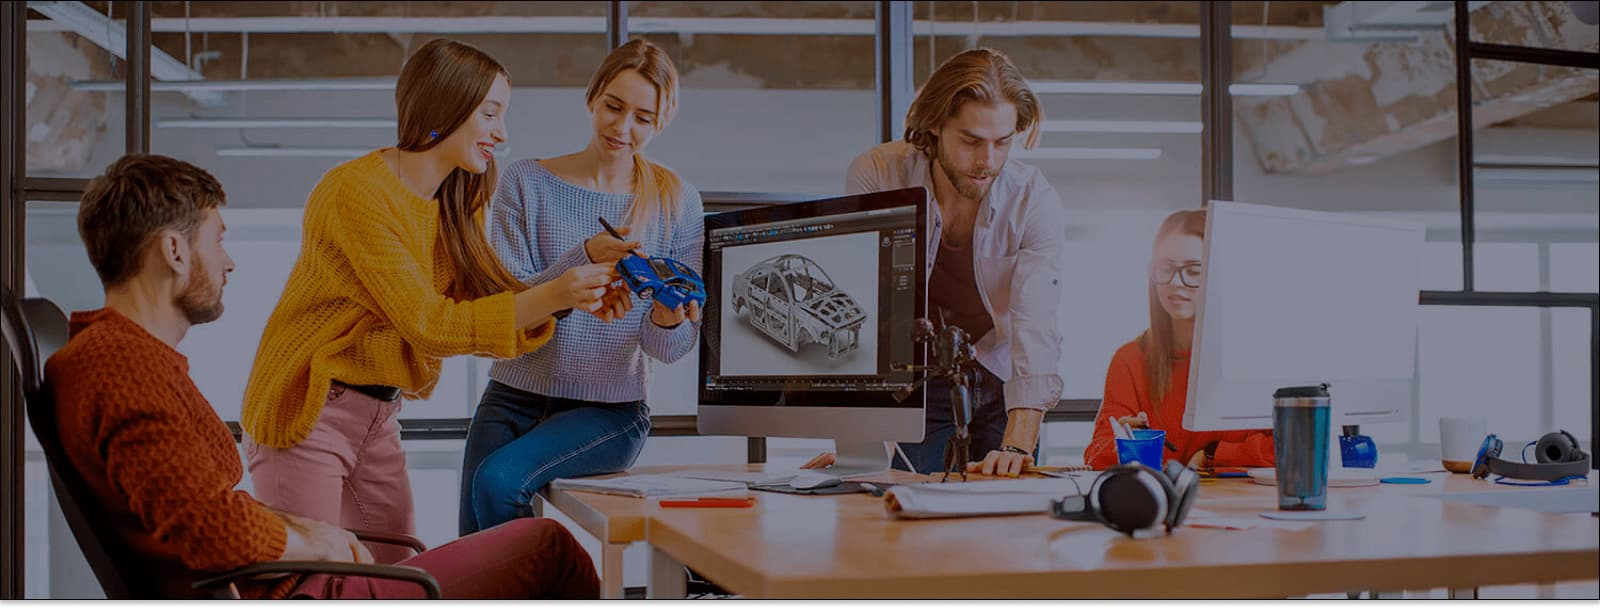
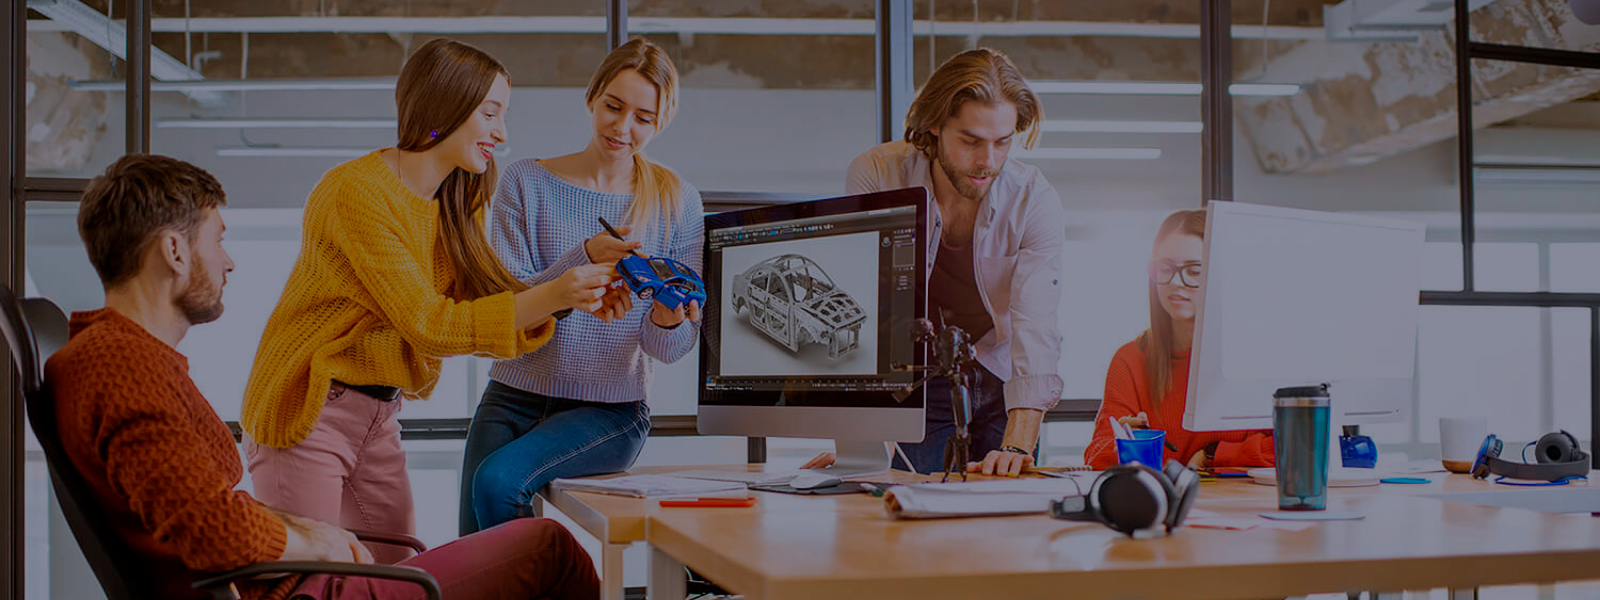
1

diff --git a/index.html b/index.html
@@ -238,7 +238,6 @@
                             <h3 class="title-name">Михаил Ермаков</h3>
                             <p class="second-name">UI Designer</p>
                         </div>
-                        <div>
                             <ul class="list social-icon">
                                 <li class="list-icon">
                                     <a class="icon-team" href="">
@@ -269,10 +268,8 @@
                                     </a>
                                 </li>
                             </ul>
-                        </li>
                     </ul>
                 </div>
-            </div>
         </section>
         <!--Our clients-->
         <section class="section">
@@ -379,11 +376,11 @@
     </footer>
     <div class="backdrop is-hidden" data-modal data-modal-close>
         <div class="modal">
-            <buttton class="button-modal" data-modal-close>
+            <button class="button-modal" data-modal-close>
                 <svg class="icon-modal">
                     <use href="./images/icons.svg#icon-close"></use>
                 </svg>
-            </buttton>
+            </button>
         </div>
     </div>
     <script src="./js/modal.js"></script>

diff --git a/css/style.css b/css/style.css
@@ -158,7 +158,12 @@ p {
     background-position: center;
     background-repeat: no-repeat;
     background-size: cover;
-    background-image: linear-gradient( rgba( 47, 48, 58, 0.4),rgba( 47, 48, 58, 0.4)),url(../images/background.jpg);
+    background-color: #757575;
+    background-image: linear-gradient(
+        to right,
+        rgba(47, 48, 58, 0.4),
+        rgba(47, 48, 58, 0.4)
+        ),url(../images/background.jpg);
     max-width: 1600px;
     text-align: center;
     padding-top: 200px;
@@ -190,6 +195,7 @@ p {
 .icon-adv{
     display: flex;
     justify-content: center;
+    align-items: center;
     width: 270px;
     height: 120px;
     background-color: #F5F4FA;
@@ -197,9 +203,6 @@ p {
     margin-bottom: 30px;
     text-align: center;
     cursor: pointer;
-}
-.antena{
-   margin-top: 25px;
 }
 .title-advange{
     color: var(--second-text-color);
@@ -554,11 +557,9 @@ p {
     top: 50%;
     left: 50%;
     transform: translate(-50%,-50%);
-
     width: 528px;
     height: 521px;
     background-color: var(--main-text-color);
-    
     transition: background-color 250ms cubic-bezier(0.4, 0, 0.2, 1);
 }
 .button-modal{
